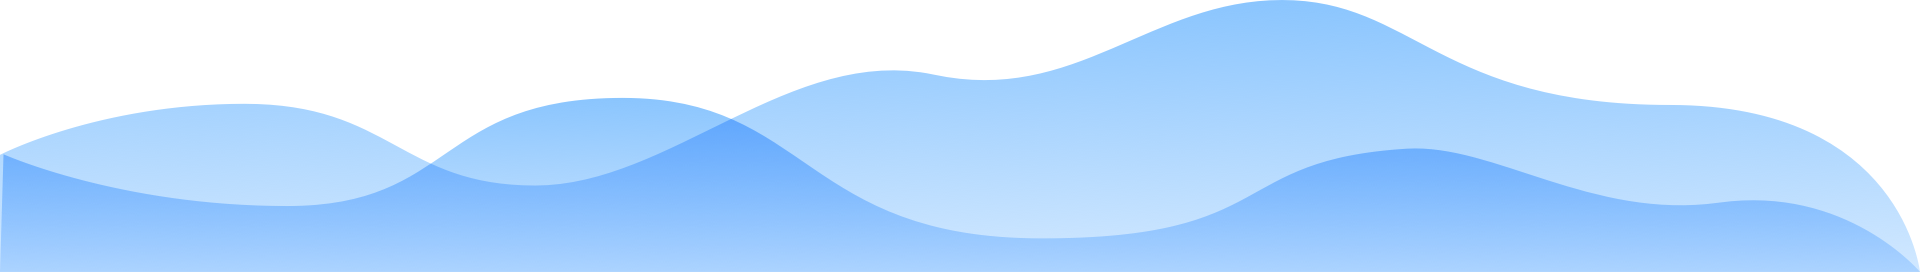
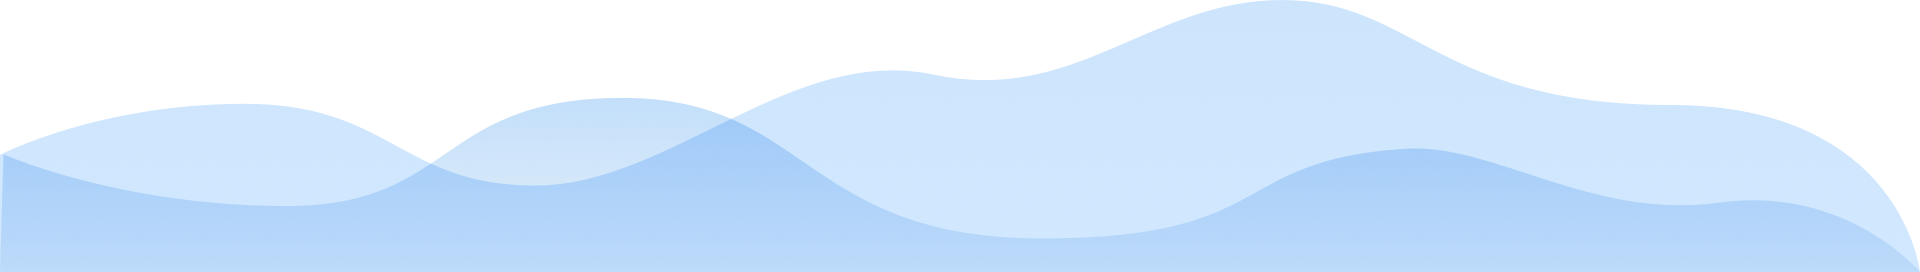
P

diff --git a/css/style.css b/css/style.css
@@ -33,7 +33,8 @@ html, body {
 }
 
 .header {
-  background: #E0F0FF;
+  background: url(../img/1.jpg) #E0F0FF;
+  /*background: #E0F0FF;*/
   /*
   background: -prefix-linear-gradient(bottom, rgba(157,206,255,1), rgba(209,232,255,1));
   background: linear-gradient(to bottom, rgba(157,206,255,1), rgba(209,232,255,1));
@@ -47,7 +48,6 @@ html, body {
 }
 
 .blog {
-	border-top: 1px solid #C0D5E9;
 	background-color: #E0F0FF;
 }
 
